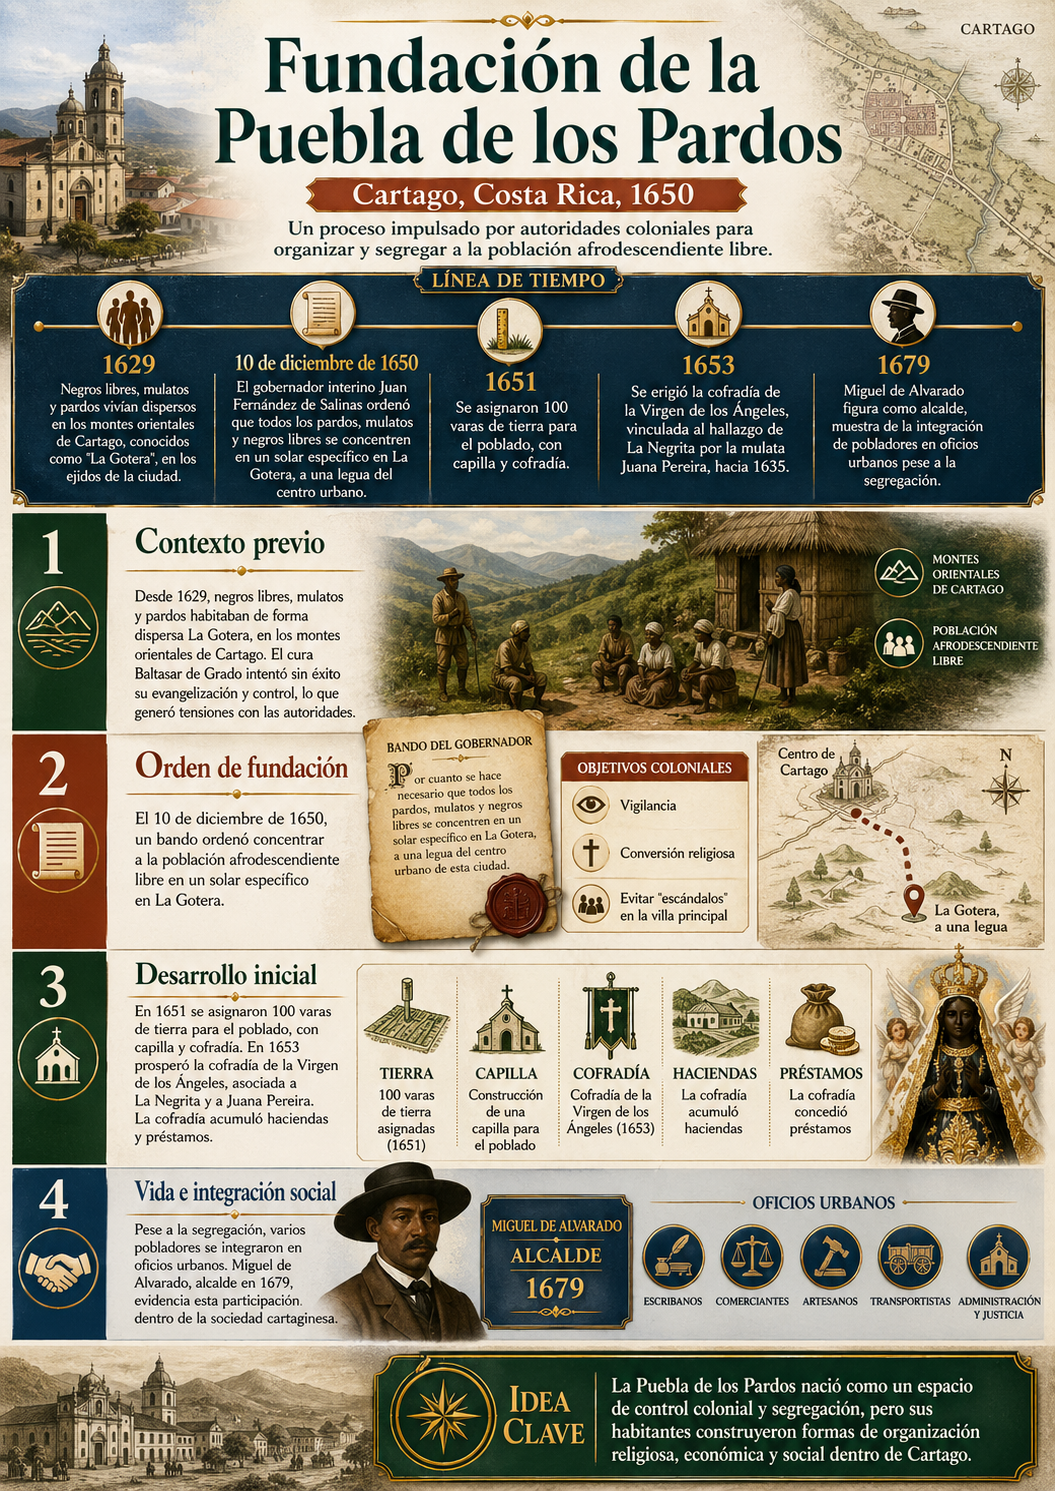
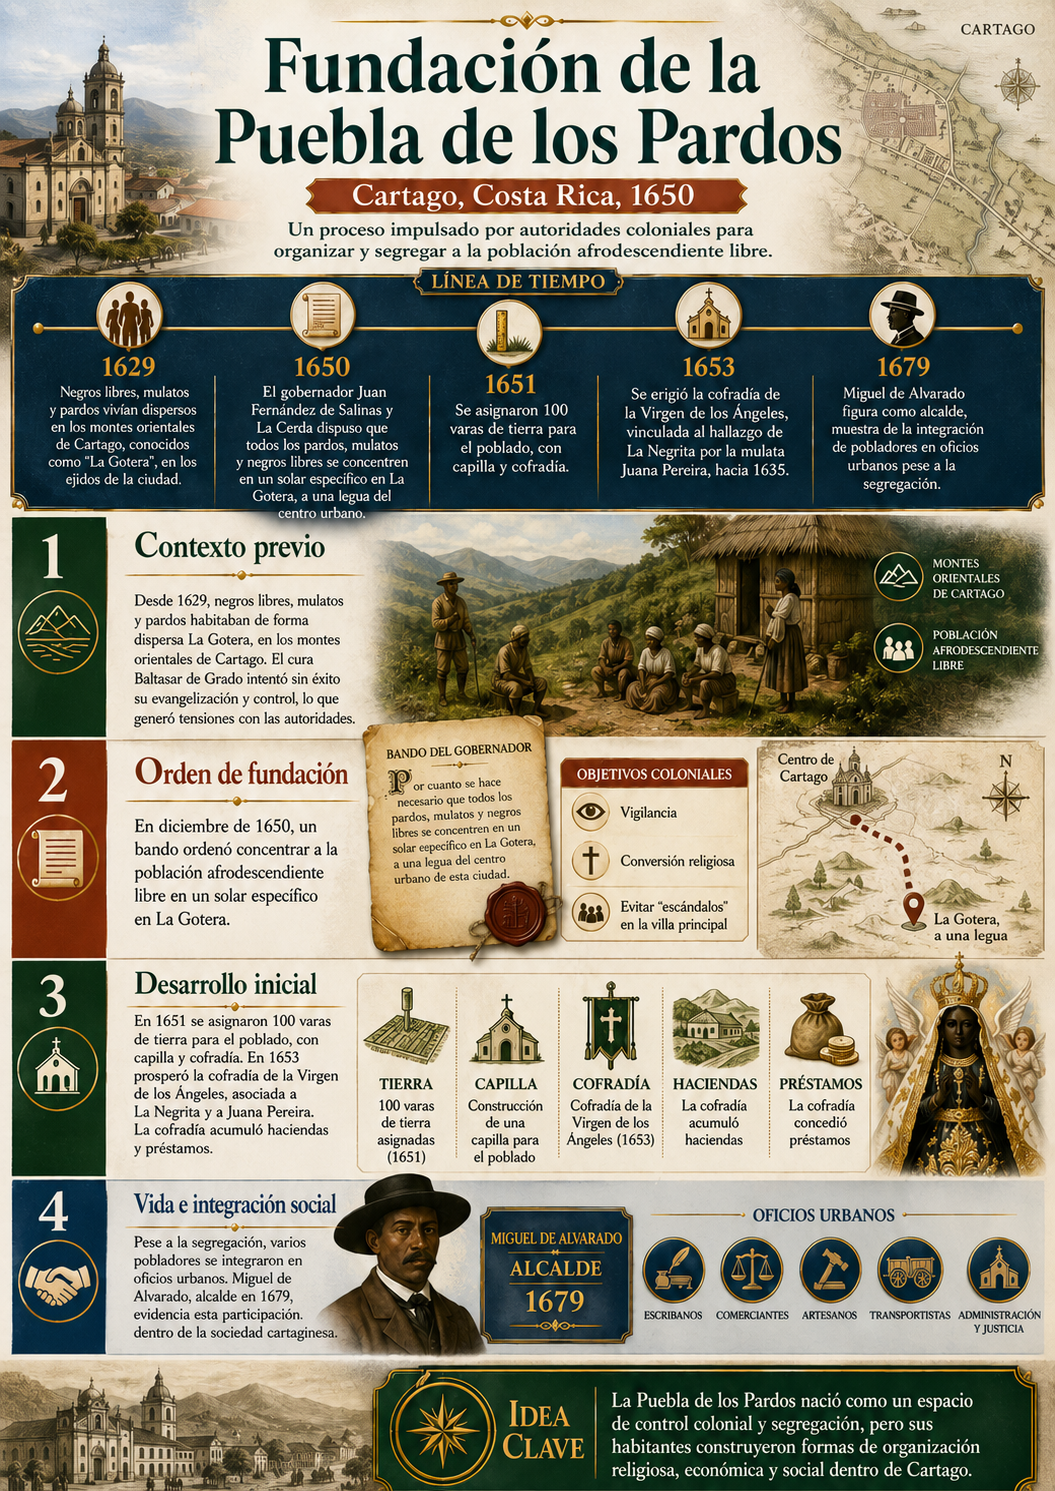
Actualizar afiche y fecha de la linea de tiempo

diff --git a/index.html b/index.html
@@ -521,7 +521,7 @@
       },
       orden: {
         title: "Orden de fundación",
-        text: "El 10 de diciembre de 1650 se ordenó concentrar a esta población en un solar específico. La medida buscaba vigilar, evangelizar y separar a estos grupos del centro urbano.",
+        text: "En 1650 se ordenó concentrar a esta población en un solar específico. La medida buscaba vigilar, evangelizar y separar a estos grupos del centro urbano.",
         audio: "Orden de fundaciòn.mp3"
       },
       desarrollo: {